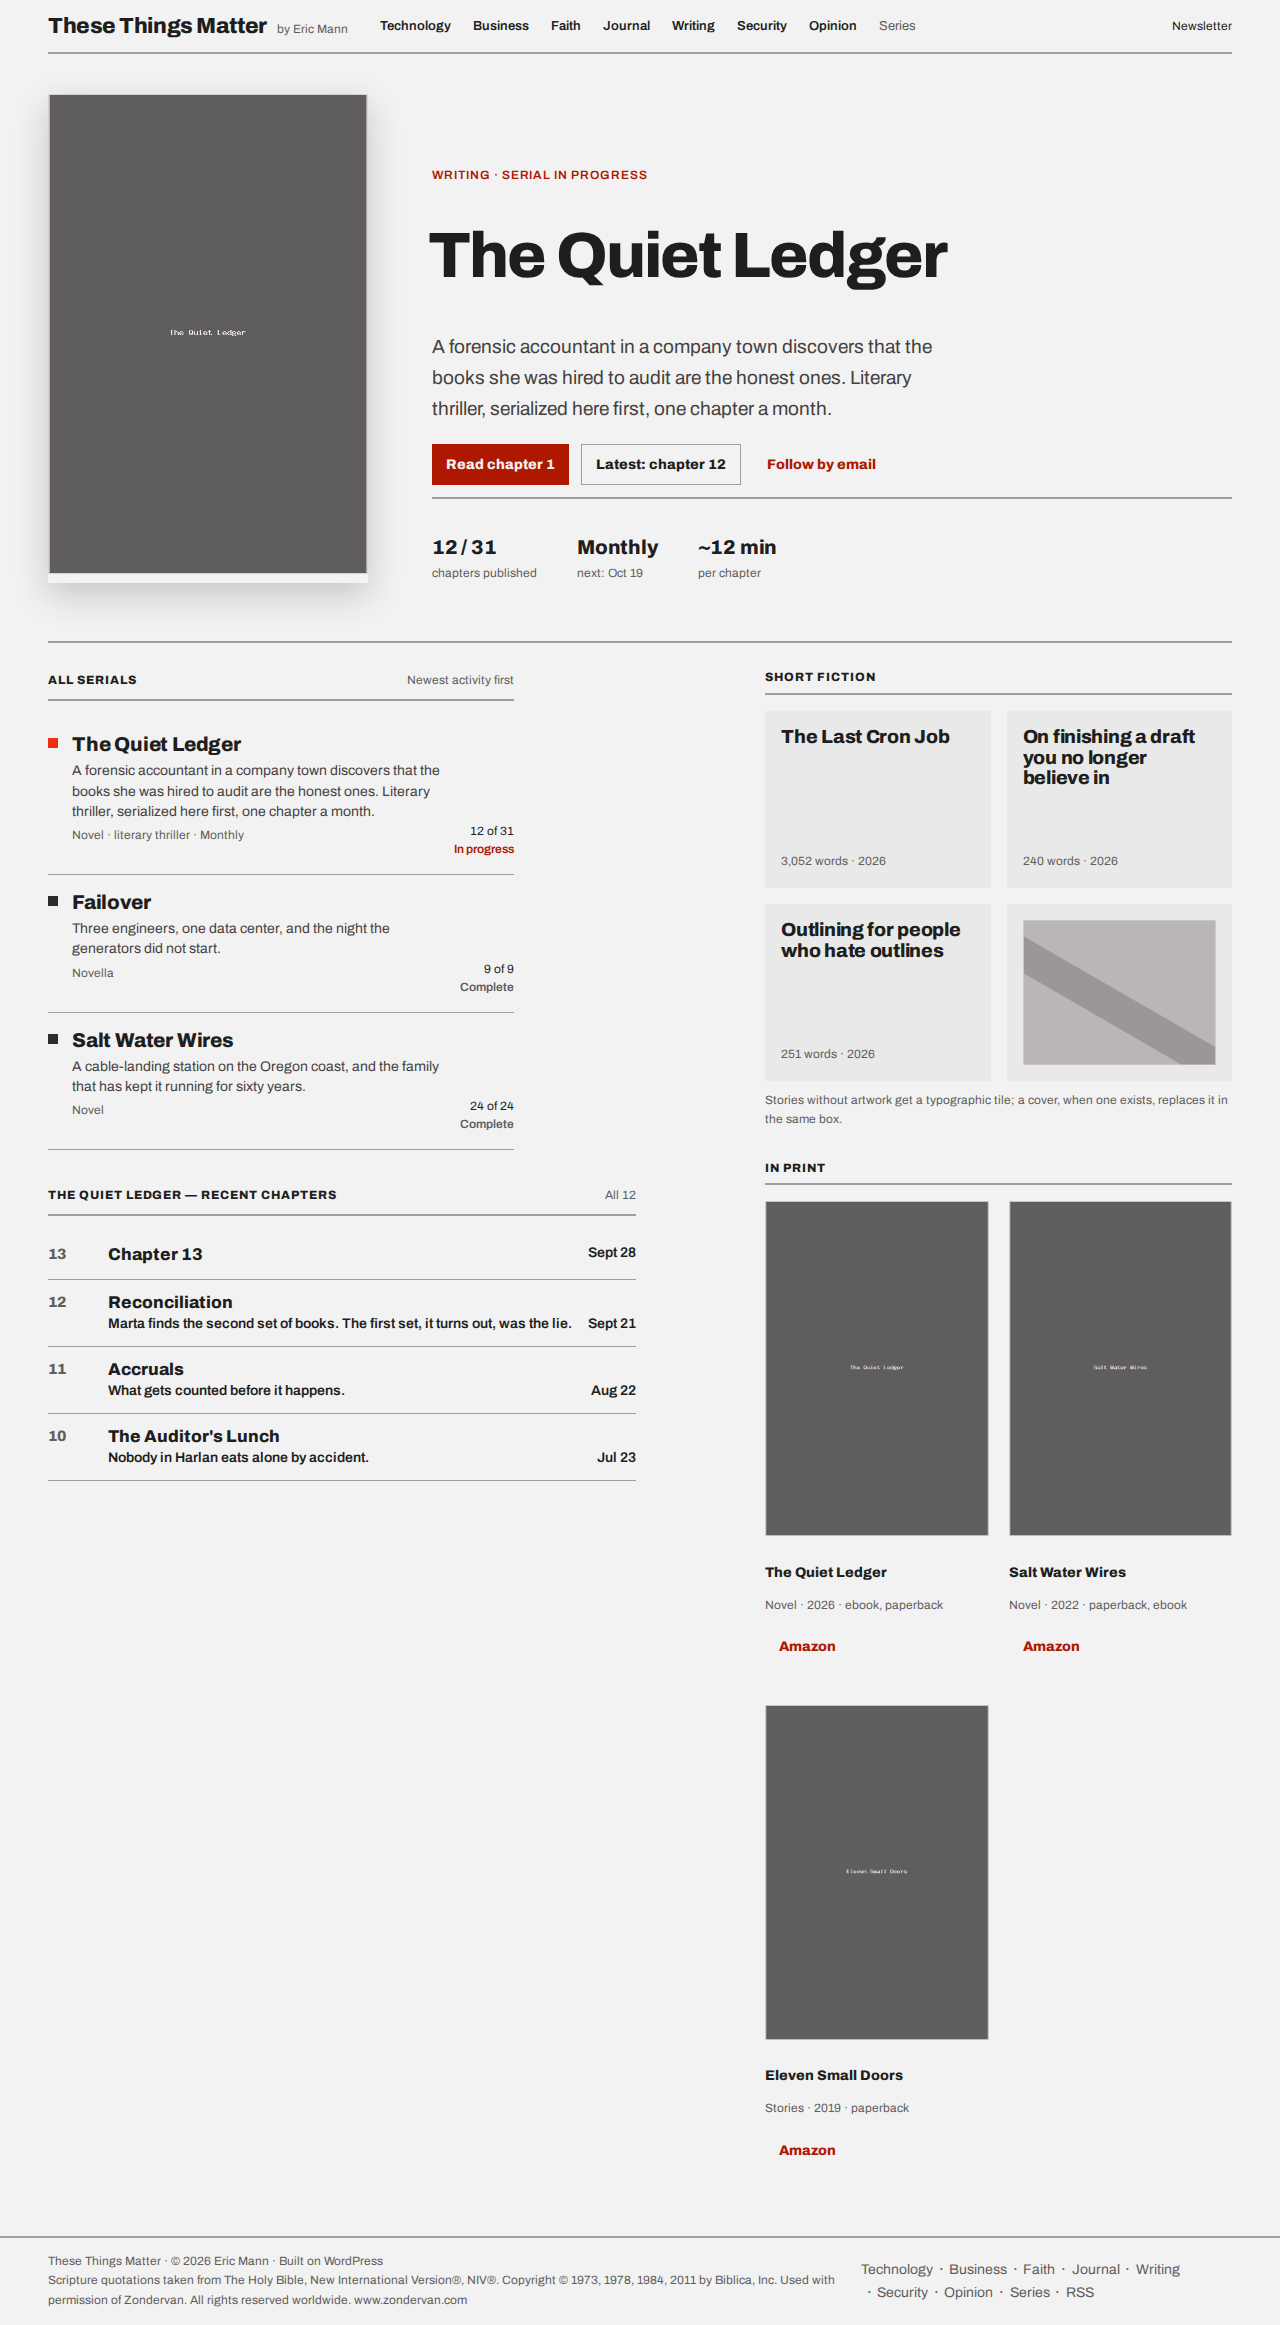
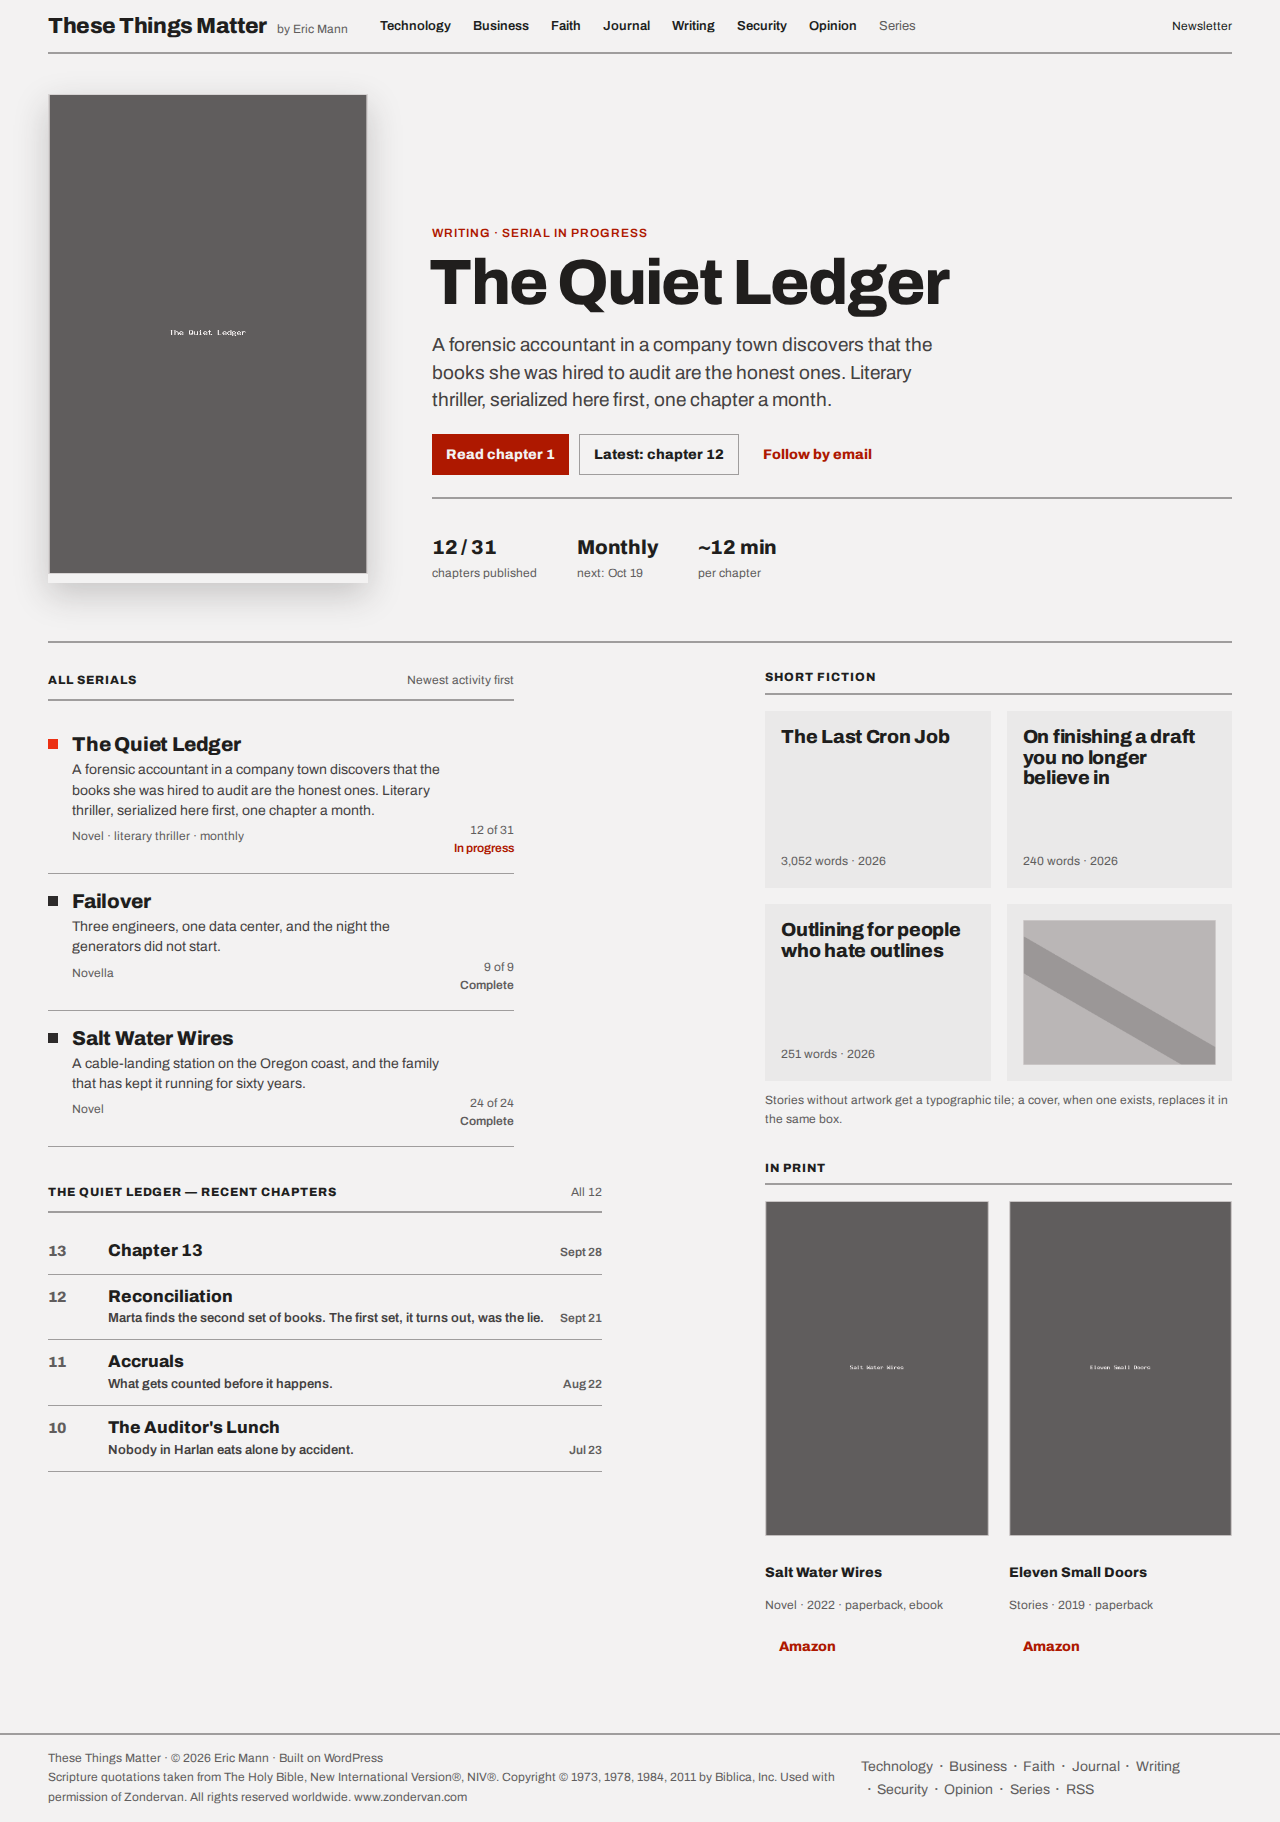
R2-02: Regenerate and commit the phase-3 screenshots after the round-1 fixes
Goal: Make docs/feedback/phase-3/*.png show the final code (post round-1 and R2-01), per SPEC §1/§8.
Tests: git merge-base --is-ancestor check (newest commit touching themes/ttm-theme, plugins/ttm-core/blocks, docs/fixtures/seed vs newest touching docs/feedback/phase-3) exits 0 as of this commit; exited 1 before it. Eyeballed writing.png (exactly two "In print" books), archive-security.png ("Nov 26" on one line), search.png (plain-text kickers), front-1920.png (strip unchanged from phase 2).
Interpretation: none -- mechanical reseed + screenshot regeneration per the task's exact commands; no code or CSS touched. 4 of the 14 PNGs (404, journal, journal-390, front-1920) came out byte-identical to the previously committed version and so have no diff to stage.
Manual check: NOT VERIFIED (human) -- full paired-mock comparison of all 14 PNGs per docs/feedback/phase-3/README.md.

diff --git a/docs/HANDOFF.md b/docs/HANDOFF.md
@@ -350,7 +350,74 @@ counts: unit 169, integration 481/481, e2e 447/447, css-coverage 193/193 markup/
    article page (R1-08).
 4. `npm run screenshots` was not re-run as part of this round (each task that touched visual CSS
    verified with a temporary, reverted screenshot or targeted Playwright check instead, noted in
-   its own log entry) — a fresh full screenshot pass against all 14 phase-3 PNGs is worth doing
-   before this branch is considered final.
+   its own log entry). This is now done: round 2's `R2-02` (commit below) regenerated and
+   committed all 14 `docs/feedback/phase-3/*.png` against the current, post-round-1-and-round-2
+   code, so the committed screenshots are current as of this handoff.
 5. `git stash list` — noted as worth a glance in the phase-3 handoff above; unrelated to this
    round but still unresolved as of this writing.
+
+## Round 2 (review-fix)
+
+Branch `refine/2026-09-22`, base `main` (`8c2b228`). Both round-2 review-fix tasks (`R2-01`,
+`R2-02`) are `[x]`; none blocked or skipped. Task counts: 53 total, 53 done, 0 open.
+
+### What each task fixed
+
+- **R2-01** (`925322a`): R1-06's budget-driven restoration of dropped declarations had edited
+  `.ttm-series-mark`, `.ttm-series-row__meta` and `.ttm-series-row__dek`'s *shared base* rules
+  instead of adding layout-scoped overrides, which silently regressed the front-page/404 strip
+  (mark 6px instead of 5px, meta lost its 4px), the category-archive rail (mark 6px instead of
+  5px) and the series-hub grid-2 dek (4px instead of 5px) while "fixing" only the Writing list
+  layout's numbers. Restored the pre-R1-06 base values (mark 5px, meta
+  `var(--wp--preset--spacing--10)` = 4px, dek 5px) and added `.ttm-series-list.is-list`-scoped
+  overrides (mark 6px, meta 6px, dek 4px, the last joined into the existing `max-width: 46ch`
+  rule) placed after the base rules in source order. Added a `stylelint-disable-next-line
+  no-descending-specificity` before the pre-existing `.ttm-series-bar .ttm-series-mark` rule,
+  which the new override made lint-flag (same pattern already used 18 other places in the file).
+  Five fidelity rows extended/added (`strip-mark`, `strip-meta`, `ar-aside-row`, new
+  `hub-grid-dek`, new `wr-serial-row-margins`); confirmed 4 of the 5 fail against the pre-fix CSS
+  (the fifth, `wr-serial-row-margins`, happened to already match since the Writing list layout was
+  R1-06's one correct target).
+- **R2-02** (commit below): regenerated all 14 `docs/feedback/phase-3/*.png` via `npm run
+  env:cli -- ttm seed --reset` + `npm run screenshots` against the current code (post R2-01, and
+  therefore post every round-1 fix too — the committed set previously dated from P5-05/`ebf010f`
+  and predated R1-01, R1-04, R1-06, R1-07, R1-08 and R2-01). No code or CSS changed in this task.
+  Eyeballed per the task's acceptance criteria: `writing.png`'s "In print" shows exactly the two
+  SPEC-named books (Salt Water Wires, Eleven Small Doors); `archive-security.png`'s 2025 group's
+  "Nov 26" row reads on one line; `search.png`'s kicker column shows plain-text labels (WRITING,
+  JOURNAL — unlinked, per R1-01); `front-1920.png`'s section-grid strip is visually unchanged from
+  phase 2/round 1 (no front-page code touched this round).
+
+### Interpretation choices this round
+
+- **R2-01**: none — the task specified exact before/after values and exact selectors for both the
+  restored base rules and the new list-only overrides; the only judgment call was where to place
+  the required `stylelint-disable-next-line` comment, resolved by following the file's existing
+  convention (immediately above the flagged selector).
+- **R2-02**: none — mechanical regeneration per the task's exact commands, no code touched.
+
+### Config keys touched this round
+
+None. `cssBudgetBytes` (⚠ ASSUMPTION, `scripts/check-budget.mjs`, 62464) was not changed;
+`ttm.css` is 62428/62464 bytes after R2-01 (36 bytes of headroom, down from R1-10's 276 because
+R2-01 nets three new selectors against three one-line value restorations).
+
+### What a human should check by hand
+
+`foundry_verify` was green at the end of both tasks (unit 169, integration 481/481, e2e 449/449,
+composer lint, npm lint including budget/coverage/fixme, forbidden-patterns). Still, a human
+should:
+
+1. Compare the four pages named in R2-01 (front page, `/writing/`, a category archive, `/series/`)
+   against their mocks by eye now that the strip/rail/grid-2 margins are restored — this was a
+   silent regression from round 1 that only Playwright's exact-pixel assertions caught, so a mock
+   comparison is worth doing once more even though the automated coverage is now tight.
+2. Open the freshly regenerated `docs/feedback/phase-3/*.png` set and do the full paired-mock
+   comparison per `docs/feedback/phase-3/README.md` that round 1's item 4 flagged as owed — this
+   is the first time since P5-05 the screenshots reflect the code the reviewer will actually see.
+3. `git stash list` — still unresolved, still unrelated to this round.
+
+The git-ancestry check the R2-02 task specifies (`git merge-base --is-ancestor $(git log -1
+--format=%H -- themes/ttm-theme plugins/ttm-core/blocks docs/fixtures/seed) $(git log -1
+--format=%H -- docs/feedback/phase-3)`) exits 0 as of R2-02's commit — the screenshot commit is
+newer than the newest commit touching theme CSS, blocks or seed fixtures.
